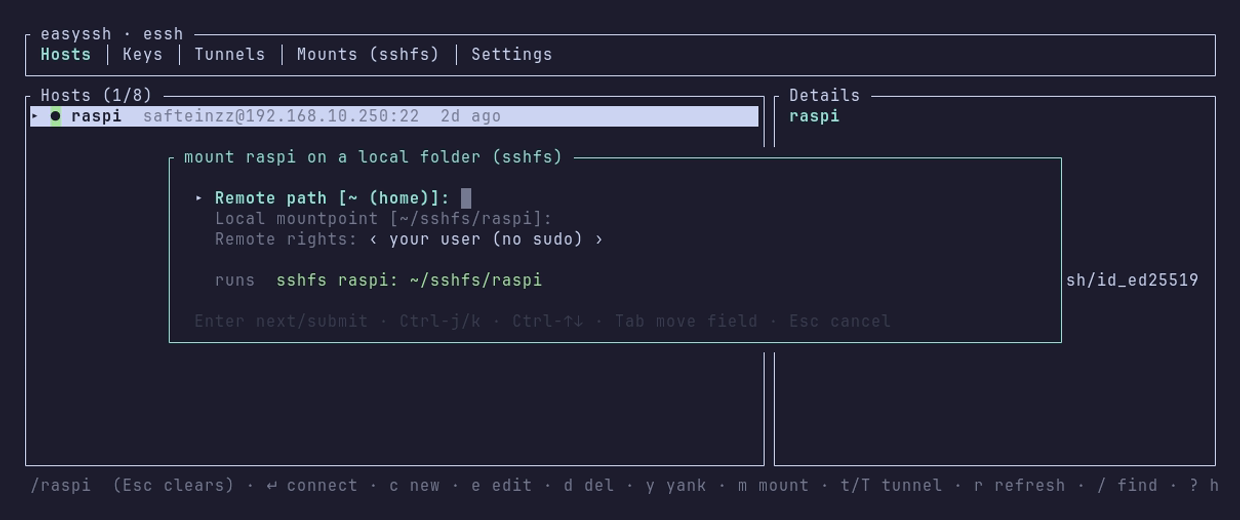
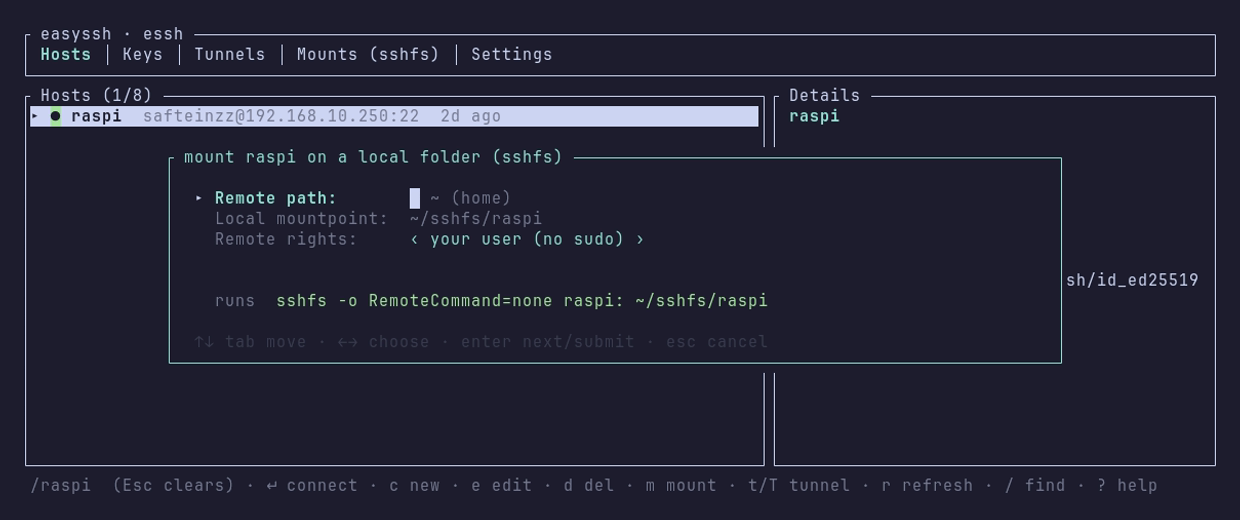
fix: the wizards read as forms, with ctrl-o in one note line

diff --git a/src/tui/prompt.rs b/src/tui/prompt.rs
@@ -6,11 +6,16 @@ use ratatui::widgets::{Clear, Paragraph, Wrap};
 
 use super::*;
 
-/// One editable line in a wizard. `default` is shown in brackets and used when
-/// the field is left blank on submit (the semantics differ per action).
+/// One editable line in a wizard: a label in the left column, a value in the
+/// right. `default` is what a blank field submits (the semantics differ per
+/// action) and stands in as the dim example until something is typed.
 pub(crate) struct Field {
     pub(crate) label: String,
     pub(crate) default: String,
+    /// The dim example shown in the value column while the field is empty: what
+    /// the field wants, not what it is called. It lives here rather than in the
+    /// label so every label stays one short noun and the values line up.
+    pub(crate) hint: String,
     pub(crate) value: String,
     pub(crate) kind: Kind,
     /// Which option a `Choice` field has selected. Unused by the other kinds.
@@ -36,6 +41,7 @@ impl Field {
         Self {
             label: label.into(),
             default: default.into(),
+            hint: String::new(),
             value: String::new(),
             kind: Kind::Text,
             choice: 0,
@@ -61,6 +67,24 @@ impl Field {
     pub(super) fn required(mut self) -> Self {
         self.required = true;
         self
+    }
+
+    /// Builder: the dim example shown while the field is empty.
+    pub(super) fn hint(mut self, hint: &str) -> Self {
+        self.hint = hint.into();
+        self
+    }
+
+    /// What stands in the value column while the field is empty: what a blank
+    /// submits, then what it wants typed. Both are dim, and both are gone the
+    /// moment there is a value, so nothing here can be mistaken for one.
+    pub(super) fn placeholder(&self) -> String {
+        [self.default.as_str(), self.hint.as_str()]
+            .iter()
+            .filter(|s| !s.is_empty())
+            .copied()
+            .collect::<Vec<_>>()
+            .join("  ")
     }
 
     /// Builder: show this field only while field `on`'s choice is one of `values`.
@@ -128,13 +152,15 @@ impl Prompt {
             idx: 0,
             action: Action::AddHost,
             fields: vec![
-                Field::new("Alias", "").required(),
-                Field::new("HostName (IP or DNS name)", ""),
+                Field::new("Alias", "")
+                    .required()
+                    .hint("what you type after ssh"),
+                Field::new("HostName", "").hint("IP or DNS name"),
                 Field::new("User", ""),
                 Field::new("Port", "22"),
-                Field::new("IdentityFile (Ctrl-o to pick a key)", ""),
-                Field::new("ProxyJump (Ctrl-o to pick a host to hop through)", ""),
-                Field::new("RemoteCommand (run this instead of a shell, e.g. pwsh)", ""),
+                Field::new("IdentityFile", "").hint("a key in ~/.ssh"),
+                Field::new("ProxyJump", "").hint("a host to hop through"),
+                Field::new("RemoteCommand", "").hint("runs instead of a shell, e.g. pwsh"),
             ],
         }
     }
@@ -148,25 +174,19 @@ impl Prompt {
                 original: h.alias.clone(),
             },
             fields: vec![
-                Field::filled("Alias", &h.alias).required(),
-                Field::filled(
-                    "HostName (IP or DNS name)",
-                    h.hostname.as_deref().unwrap_or(""),
-                ),
+                Field::filled("Alias", &h.alias)
+                    .required()
+                    .hint("what you type after ssh"),
+                Field::filled("HostName", h.hostname.as_deref().unwrap_or(""))
+                    .hint("IP or DNS name"),
                 Field::filled("User", h.user.as_deref().unwrap_or("")),
                 Field::filled("Port", h.port.as_deref().unwrap_or("")),
-                Field::filled(
-                    "IdentityFile (Ctrl-o to pick a key)",
-                    h.identity.as_deref().unwrap_or(""),
-                ),
-                Field::filled(
-                    "ProxyJump (Ctrl-o to pick a host to hop through)",
-                    h.proxy_jump.as_deref().unwrap_or(""),
-                ),
-                Field::filled(
-                    "RemoteCommand (run this instead of a shell, e.g. pwsh)",
-                    h.remote_command.as_deref().unwrap_or(""),
-                ),
+                Field::filled("IdentityFile", h.identity.as_deref().unwrap_or(""))
+                    .hint("a key in ~/.ssh"),
+                Field::filled("ProxyJump", h.proxy_jump.as_deref().unwrap_or(""))
+                    .hint("a host to hop through"),
+                Field::filled("RemoteCommand", h.remote_command.as_deref().unwrap_or(""))
+                    .hint("runs instead of a shell, e.g. pwsh"),
             ],
         }
     }
@@ -179,8 +199,8 @@ impl Prompt {
                 kind: kind.to_string(),
             },
             fields: vec![
-                Field::new("Key name (file in ~/.ssh)", &format!("id_{kind}")),
-                Field::new("Comment (your email)", ""),
+                Field::new("Key name", &format!("id_{kind}")).hint("a file in ~/.ssh"),
+                Field::new("Comment", "").hint("your email"),
             ],
         }
     }
@@ -202,7 +222,9 @@ impl Prompt {
                 ),
                 // Only the sudo mode needs the server-side binary, so it stays
                 // hidden for a plain mount.
-                Field::new("sftp-server on the server", &settings.sftp_server).shown_when(2, &[1]),
+                Field::new("sftp-server", &settings.sftp_server)
+                    .hint("the binary on the server")
+                    .shown_when(2, &[1]),
             ],
         }
     }
@@ -213,8 +235,8 @@ impl Prompt {
             idx: 0,
             action: Action::Forward { host: host.clone() },
             fields: vec![
-                Field::new(&format!("Remote port (the service on {host})"), ""),
-                Field::new("Local port (where you'll reach it)", "= remote"),
+                Field::new("Remote port", "").hint(&format!("the service on {host}")),
+                Field::new("Local port", "= remote").hint("where you'll reach it"),
             ],
         }
     }
@@ -240,9 +262,23 @@ impl Prompt {
             idx: 0,
             action: Action::Reverse { host: host.clone() },
             fields: vec![
-                Field::new("Local port (yours to expose)", ""),
-                Field::new(&format!("Remote port (opened on {host})"), "= local"),
+                Field::new("Local port", "").hint("yours to expose"),
+                Field::new("Remote port", "= local").hint(&format!("opened on {host}")),
             ],
+        }
+    }
+
+    /// The one line of guidance a form carries under its fields, dim, or empty
+    /// for a form that needs none. It lives here rather than in a label because
+    /// what it explains is true of the whole form and stays true once a field
+    /// is filled in - a parenthetical in a pre-filled label is invisible where
+    /// it is needed most.
+    pub(super) fn note(&self) -> &'static str {
+        match &self.action {
+            Action::AddHost | Action::EditHost { .. } => {
+                "ctrl-o fills IdentityFile or ProxyJump from what this machine already has"
+            }
+            _ => "",
         }
     }
 
@@ -323,26 +359,53 @@ impl Prompt {
     }
 }
 
-/// The wizard box. The preview line can be far wider than the box (a sudo mount
-/// wraps to several rows), so the height is counted against the wrapped width
-/// and never against the line count.
+/// The column a wizard's values start in, measured from the label's first
+/// character. Fixed rather than measured off the longest label: the fields on
+/// screen change as a wizard is answered, and a measured column would slide
+/// every value sideways when they did. A longer label simply pushes its own
+/// row rather than dragging the whole column out with it.
+const LABEL_COL: usize = 14;
+/// How far a wide form may push that column before the labels are the ones that
+/// give way, so a single long label cannot shove every value off the box.
+const LABEL_COL_MAX: usize = 22;
+
+/// The columns a label cell eats: the label, its star, and the colon.
+fn label_width(field: &Field) -> usize {
+    field.label.chars().count() + usize::from(field.required) + 1
+}
+
+/// Where this form's values start.
+fn value_column(fields: &[Field]) -> usize {
+    let widest = fields.iter().map(label_width).max().unwrap_or(0) + 2;
+    widest.clamp(LABEL_COL, LABEL_COL_MAX)
+}
+
+/// The wizard box: labels in one column, values in another, and nothing that
+/// appears or disappears with the cursor. The key for a choice row used to be
+/// printed on whichever row was focused, which made every row grow and shrink
+/// as you moved through the form to repeat what the key line already says.
+///
+/// The preview line can be far wider than the box (a sudo mount wraps to
+/// several rows), so the height is counted against the wrapped width and never
+/// against the line count.
 pub(super) fn render_prompt(f: &mut Frame, area: Rect, p: &Prompt) {
     // No leading blank: the box's own top padding is that row.
     let mut lines: Vec<Line> = Vec::new();
     // Plain text of every line, kept alongside so the box can be sized against
     // what the lines wrap to rather than how many there are.
     let mut texts: Vec<String> = Vec::new();
+    let dim = Style::default().add_modifier(Modifier::DIM);
+    let col = value_column(&p.fields);
     for (i, field) in p.fields.iter().enumerate() {
-        // A field that does not apply to the answers so far is not drawn at all.
+        // A field that does not apply to the answers so far keeps its row and
+        // draws nothing: answering the question above it must not resize the
+        // box under the cursor.
         if !p.visible(i) {
+            lines.push(Line::raw(""));
+            texts.push(String::new());
             continue;
         }
         let active = i == p.idx;
-        let head = if field.default.is_empty() {
-            field.label.clone()
-        } else {
-            format!("{} [{}]", field.label, field.default)
-        };
         // Required-ness is a property of the field, not of where the cursor is,
         // so the star keeps its colour while the label around it dims.
         let star = if field.required { "*" } else { "" };
@@ -353,39 +416,50 @@ pub(super) fn render_prompt(f: &mut Frame, area: Rect, p: &Prompt) {
         } else {
             Style::default().add_modifier(Modifier::DIM)
         };
-        // A choice has no text cursor; it shows its options key instead, so the
-        // way to change it is on screen rather than something you must know.
-        let (value_style, tail) = if field.is_choice() {
-            let style = if active {
-                Style::default()
-                    .fg(Color::Yellow)
-                    .add_modifier(Modifier::BOLD)
-            } else {
-                Style::default()
-            };
-            (style, if active { "   h/l or ←/→" } else { "" })
+        let pad = " ".repeat(col.saturating_sub(label_width(field)).max(1));
+        let mut spans = vec![
+            Span::raw(if active { "▸ " } else { "  " }),
+            Span::styled(field.label.clone(), label_style),
+            Span::styled(star, Style::default().fg(Color::Red)),
+            Span::styled(format!(":{pad}"), label_style),
+        ];
+        let value = field.display();
+        let tail = if field.is_choice() {
+            // A cycled answer, in the colour a form uses for the thing it will
+            // submit; the guillemets are what say it can be stepped.
+            let mut style = Style::default().fg(Color::Cyan);
+            if active {
+                style = style.add_modifier(Modifier::BOLD);
+            }
+            spans.push(Span::styled(value.clone(), style));
+            String::new()
+        } else if value.is_empty() {
+            let example = field.placeholder();
+            spans.push(Span::raw(if active { "█ " } else { "" }));
+            spans.push(Span::styled(example.clone(), dim));
+            example
         } else {
-            (Style::default(), if active { "█" } else { "" })
+            spans.push(Span::raw(value.clone()));
+            spans.push(Span::raw(if active { "█" } else { "" }));
+            String::new()
         };
         texts.push(format!(
-            "{}{}{}: {}{}",
+            "{}{}{}:{pad}{}{}",
             if active { "▸ " } else { "  " },
-            head,
+            field.label,
             star,
-            field.display(),
+            value,
             tail
         ));
-        lines.push(Line::from(vec![
-            Span::raw(if active { "▸ " } else { "  " }),
-            Span::styled(head, label_style),
-            Span::styled(star, Style::default().fg(Color::Red)),
-            Span::styled(": ", label_style),
-            Span::styled(field.display(), value_style),
-            Span::styled(
-                tail.to_string(),
-                Style::default().add_modifier(Modifier::DIM),
-            ),
-        ]));
+        lines.push(Line::from(spans));
+    }
+    // One line of guidance for the whole form, where a parenthetical in two
+    // labels used to sit - and go missing exactly when the field was filled in.
+    if !p.note().is_empty() {
+        lines.push(Line::raw(""));
+        texts.push(String::new());
+        lines.push(Line::from(Span::styled(p.note(), dim)));
+        texts.push(p.note().to_string());
     }
     // Live command preview: shows the exact command being built as you type, so
     // the wizard teaches the underlying tool instead of hiding it.
@@ -394,12 +468,11 @@ pub(super) fn render_prompt(f: &mut Frame, area: Rect, p: &Prompt) {
         texts.push(String::new());
         texts.push(format!("  runs  {cmd}"));
         lines.push(Line::from(vec![
-            Span::styled("  runs  ", Style::default().add_modifier(Modifier::DIM)),
+            Span::styled("  runs  ", dim),
             Span::styled(cmd, Style::default().fg(Color::Green)),
         ]));
     }
-    let mut hint =
-        "Enter next/submit · Ctrl-j/k · Ctrl-↑↓ · Tab move field · Esc cancel".to_string();
+    let mut hint = "↑↓ tab move · ←→ choose · enter next/submit · esc cancel".to_string();
     if (0..p.fields.len()).any(|i| p.visible(i) && p.fields[i].required) {
         hint.push_str(" · * required");
     }

diff --git a/AGENTS.md b/AGENTS.md
@@ -22,6 +22,8 @@ Working brief for an AI coding agent, not documentation for people (the README c
 - **The six kinds of box, and what a colour means.** Every overlay is one of six, and the kind fixes the border colour: a **gate** (red, two buttons, starts on **No**) in front of something destructive or irreversible; an **alert** (yellow, no buttons, dismiss only, scrolls) for a failure that already happened and has to be read; an **offer** (cyan, two buttons, starts on **Yes**) where the app volunteers a fix after something failed; a **picker** (cyan) to choose from a list the app already knows; a **form** (cyan) for typed fields and wizards; a **reader** (cyan) for a scrolling read-only body such as help. Red means you are about to lose something, yellow means something already went wrong and reading it costs nothing, cyan means the app is asking or offering with nothing at stake. What a box *does* is carried by its buttons and its default focus and never by colour alone, which is what tells a gate from an offer: red starting on No against cyan starting on Yes. A seventh kind is a house decision, not a local one: it goes into every crate's `AGENTS.md` or it does not get added.
 - **What every box looks like.** One anatomy across every kind and every crate, so that only the colour and the buttons carry meaning: `Clear` first, centered, `Borders::ALL`; the title is `" name "`, spaced and lowercase, on the top border, and **nothing else is ever written on the border**, because a frame with a sentence along the bottom of it stops reading as a frame and starts competing with its own title; `Padding::new(2, 2, 1, 0)`, one blank row above the content and none below it, since the key line is already the last thing in the box and a blank under it only makes the frame look loose; the body left-aligned and wrapped with `Wrap { trim: false }`, wrapping off only for pre-formatted content that scrolls; the keys are the last row of the *body*, after a blank row, in `DarkGray` dimmed, which is a step below an unfocused field label (the default foreground, dimmed) on purpose - separation here is the blank row and the fixed position, never brightness, and anything brighter or tinted makes a guideline read as something worth reading; buttons are `" Yes (y) "` and `" No (n) "` so the label teaches the key, the picked one `bg(<the border colour>) + fg(Black) + BOLD` and the other `DIM`. The box is measured from its content: width clamped to 24..88, height the *wrapped* row count plus 3 for the two borders and the top padding row, capped at the whole screen and never at a fraction of it - a box is drawn over a `Clear` and owns the screen while it is up, so a fraction only decides in advance that a long one gets cut off. Counting unwrapped lines, or forgetting the chrome, is what clips the last row and leaves a modal looking unanswerable; a fixed height is the same bug waiting for a longer message. Ctrl-C escapes any box, and a key that means nothing to it is swallowed rather than dismissing it.
 - **How a box looks is checked by looking at it, never by a test.** A `TestBackend` buffer holds only symbols, so it can never see a colour, a weight or a spacing, which is most of what is worth checking about an overlay. The verification surface is the rendered frame: run the tape whose shot covers the box and look at the PNG or GIF in `readme-assets/`, which an agent can open and read as well as a person can, so this is a real check rather than a hand-wave at somebody else. A test that asserts on a box's body text pins the wording instead of the behaviour, so every rewording breaks it while teaching nothing about whether the box works. Geometry is the one thing such a test could honestly assert - the bottom border on screen and the row above it not blank - and even that goes in only if the user asks for it at ship time.
+- **A required field is marked with a red `*`, and nothing else is.** A wizard field carries the star only where the submit path really refuses a blank, so everything unmarked is provably optional and a label never also says "optional" - saying it twice is what makes the unmarked fields ambiguous. The star sits between the label and its colon and keeps its red while the label around it dims, because whether a field can be left blank is a property of the field and not of where the cursor is; the key row gains a plain-dim `* required` legend only when a visible field is starred, and is never tinted. The star and the check that enforces it are added in the same commit, or the form starts lying about what it needs.
+- **How a form is laid out.** A wizard is two columns: labels on the left, values in one straight column that starts at 14 and is pushed out no further than 22 by a wide form, past which the labels are the ones that give way, since a single long label must never shove every value off the box. The label is a short noun and its colon, nothing else: what the field wants goes in the value column as a dim placeholder - what a blank submits, then the example - and it is gone the moment there is a value. Nothing in a row appears or disappears with the cursor, because a key printed on whichever row is focused makes every row grow and shrink as you move through the form, to say what the key line at the bottom already says. Guidance that is still true once a field is filled in is one dim note line under the fields, never a parenthetical in four labels that are pre-filled anyway. The block reserves the rows of the tallest shape the form can rebuild into, so answering one field never resizes the frame under the cursor. A two-option toggle is drawn as the house buttons, the picked one filled; a one-of-many pick is its value between dim guillemets, so the two never read as each other.
 - **Where an error appears: in a CLI.** It goes to stderr and the process exits non-zero. Stdout is the command's output and nothing else, because `slu ls | grep x` and every script like it must never find a complaint mixed into the data, and a failure that still exits 0 is a lie a script has no way to catch. Say it in one line of our own words, then the failing program's own words under it when there are any; a panic and its backtrace are never the user-facing path, so anything we can predict is caught and worded before it gets there.
 - No em-dashes anywhere (code, comments, README, `--help`, crate description, commit messages, prose), because they read as AI-generated text; use `-` instead.
 - Fix the root cause, and if a workaround must ship say the word "workaround" out loud so a silent patch never passes as a real fix; the same goes for lints, where an `#[allow]` is never the answer and the code it points at gets fixed or deleted.
@@ -57,7 +59,7 @@ Working brief for an AI coding agent, not documentation for people (the README c
 - When touching reachability: probes run on background threads and report over an mpsc channel, tagged with `reach_gen`; an answer from an older generation is dropped rather than repainting a list that has moved on. The event loop polls while `probing()` is true and blocks otherwise, so the idle cost stays zero. A TCP connect answers "is anything listening", never "can I log in", and the labels must not claim more.
 - When yanking: the clipboard is whichever of `wl-copy`, `xclip`, `xsel`, `pbcopy` is on PATH, and the status names it (`copied … (wl-copy)`); with none installed we say which ones would work rather than failing silently. Nothing is bundled and nothing is installed.
 - TUI navigation: `j/k` and the arrows move, `h/l`, the arrows and Tab switch view, and the Ctrl-chords navigate too. Inside a wizard `h/j/k/l` are typed text, so fields move with `Ctrl-j/k`, `Ctrl-arrows` or Tab. A `Kind::Choice` field is the exception: it holds no text, so `h/l` and the arrows (with or without Ctrl) cycle its answer and you leave it with Tab, Enter or the vertical keys.
-- A wizard field carries a red `*` only when `submit_prompt` really refuses a blank one, so everything unmarked is genuinely optional and the star never has to be explained. The add/edit-host wizard stars the Alias alone: a `Host raspi` with no HostName is valid whenever the alias itself resolves, so starring HostName would mean enforcing it and breaking that. A field label therefore never says "optional" - the star already carries that, and saying it twice makes the unsaid case ambiguous. The `* required` legend is appended to the key row only when a visible field is starred, and stays plain dim there like the rest of the row - the star is red where it sits, next to the label, and nowhere else.
+- The add/edit-host wizard stars the Alias alone, because `submit_prompt` refuses only that one: a `Host raspi` with no HostName is valid whenever the alias itself resolves, so starring HostName would mean enforcing it and taking that host away from the TUI, and a blank User is not an omission either - it is ssh using your login name, which is the whole point of leaving it out.
 - Wizard fields are `Kind::Text` or `Kind::Choice` (cycled in place), and `shown_when` hides one until another field's choice selects it. Hidden fields keep their slot so field indices stay stable; `visible`, `step` and `on_last_field` are what keep navigation and Enter from landing on them.
 - Every overlay goes through the house box in `tui::widgets` (`box_block`, `box_buttons`, `box_hint`, `box_width`, `box_inner_width`, `box_height`, `box_area`), never a hand-rolled `Block`. Measure the body with `wrapped_line_count(text, box_inner_width(width))` and hand the *wrapped* count to `box_height`, which adds the chrome: a sudo mount's preview is wider than the box, and counting lines clipped the key line off. `wrapped_line_count` counts real columns (leading spaces included), so do not switch it back to `split_whitespace`. The percentage-width `centered` and `PROMPT_PCT` were deleted rather than kept beside it, because two ways to size a box is how the padding stopped being accounted for in one of them.
 - When mounting as root: sshfs's channel has no tty, so `sudo` cannot prompt, and the wizard offers exactly one sudo mode - `-o sftp_server=sudo <path>`, which needs a NOPASSWD sudoers line scoped to the sftp server. Do not add a "send the password" mode: every way of feeding one from here (piping it to `sudo -S`, priming the ppid ticket) puts the password in a command line, where `ps` shows it to every user on both machines. Hiding it would take owning the SSH client, not a flag.
